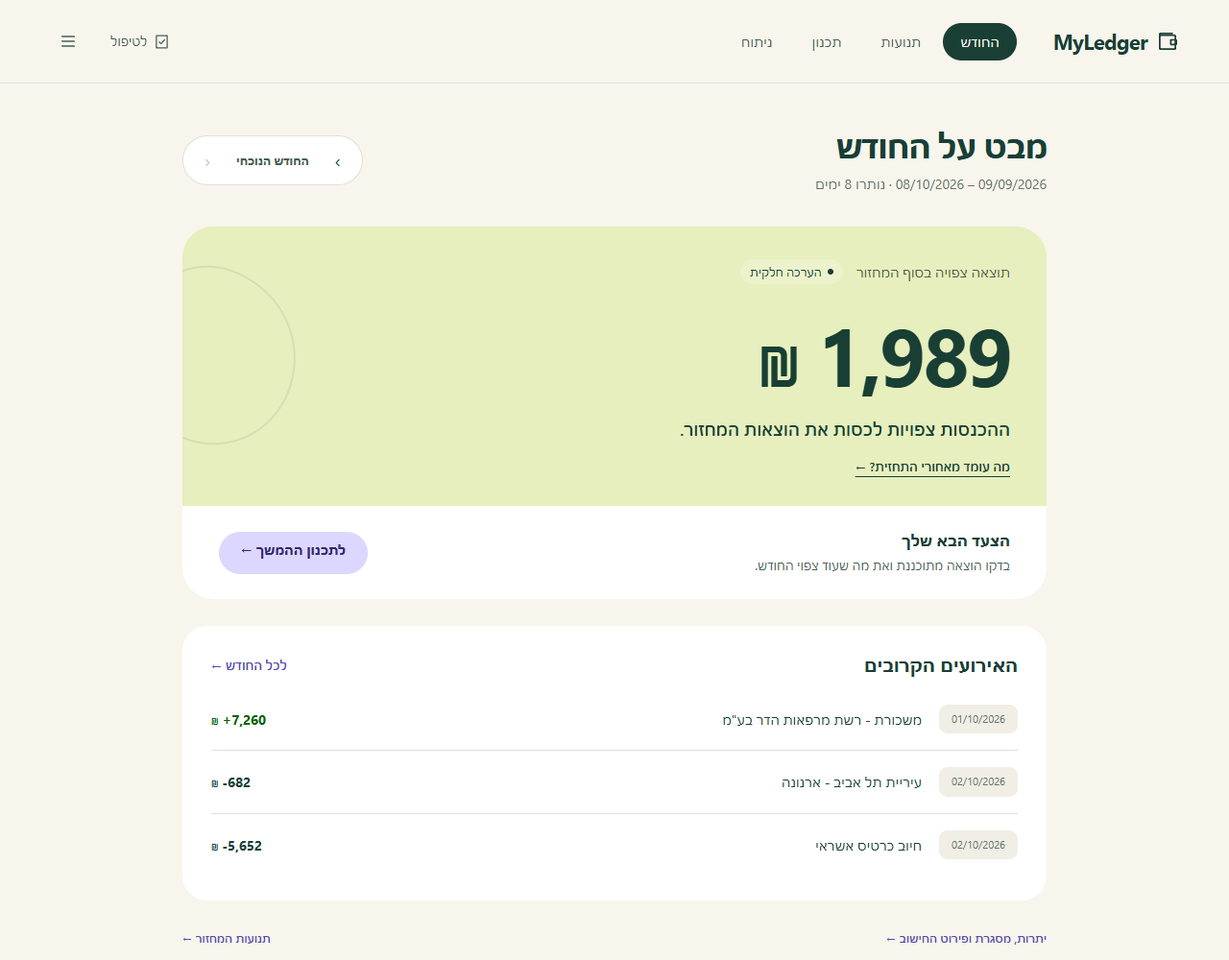
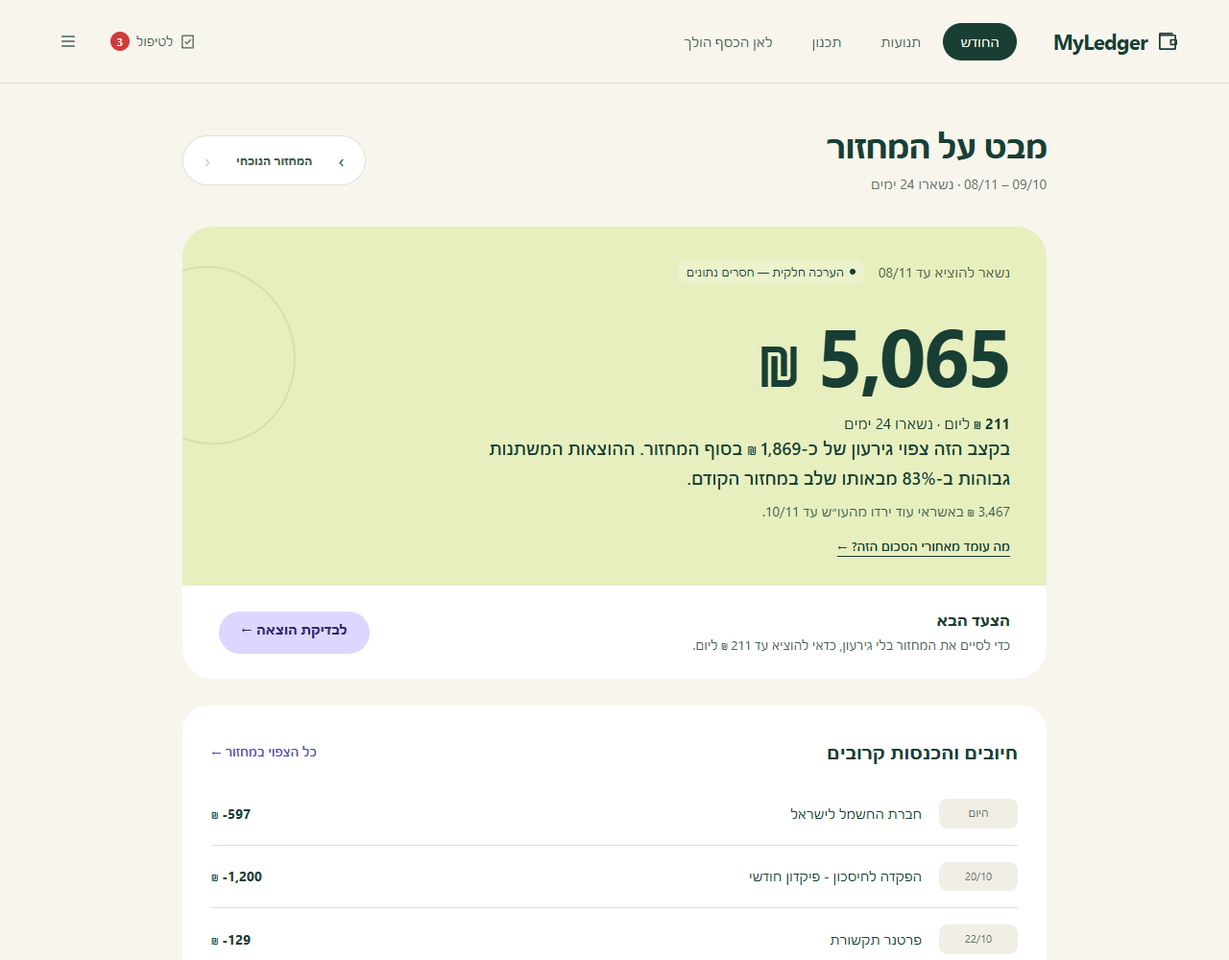
Refresh screenshots and docs for the new screens
All docs/images screenshots retaken from demo data, with local paths masked.
README, USER_GUIDE and INSTALL use the screens' own vocabulary and describe
the lean Telegram digest. The breakdown summary now says it shows the cycle's
projection; recurring totals no longer run the label into the number.

diff --git a/web/src/pages/RecurringPage.vue b/web/src/pages/RecurringPage.vue
@@ -95,19 +95,19 @@ finally {
 </div>
 <div class="flex gap-2">
 <button class="btn btn-ghost" :disabled="busy" @click="detect">{{busy?'מחפש…':'זיהוי מההיסטוריה'}}</button>
-<button class="btn btn-primary" @click="edit()">הוספת התחייבות</button>
+<button class="btn btn-primary" @click="edit()">הוספה ידנית</button>
 </div>
 </header>
 <p v-if="error&&!open" role="alert" class="error-box">{{error}}</p>
 <p v-if="message" role="status" class="notice-panel">{{message}}</p>
 <div class="metric-grid">
 <div class="metric-card">
-<span>הכנסה חודשית מתוכננת</span>
-<strong>{{loading?'—':fmtILSRound(totals.income)}}</strong>
+<h2>הכנסה חודשית מתוכננת</h2>
+<strong class="value block">{{loading?'—':fmtILSRound(totals.income)}}</strong>
 </div>
 <div class="metric-card">
-<span>הוצאה חודשית מתוכננת</span>
-<strong>{{loading?'—':fmtILSRound(totals.expense)}}</strong>
+<h2>הוצאה חודשית מתוכננת</h2>
+<strong class="value block">{{loading?'—':fmtILSRound(totals.expense)}}</strong>
 </div>
 </div>
 <p class="section-hint">סכומים פעילים ובתוקף. דו־חודשי מחושב כמחצית; סכום זה שונה מהיתרה שעוד נותרה לתשלום במחזור.</p>
@@ -131,7 +131,7 @@ finally {
 </article>
 <p v-if="!items.length" class="empty-state">אין עדיין הכנסות או הוצאות קבועות. אפשר להוסיף ידנית או לזהות מההיסטוריה.</p>
 </div>
-<AppDialog :open="open" :title="editing?'עריכת התחייבות':'התחייבות חדשה'" @close="!busy&&(open=false)">
+<AppDialog :open="open" :title="editing?'עריכת קבועה':'הכנסה או הוצאה קבועה חדשה'" @close="!busy&&(open=false)">
 <form class="space-y-4" @submit.prevent="save">
 <p v-if="error" class="error-box" role="alert">{{error}}</p>
 <label class="block">שם כפי שמופיע בתנועה<input v-model="form.displayName" class="field w-full" required minlength="2" maxlength="120"/>

diff --git a/web/src/pages/BreakdownPage.vue b/web/src/pages/BreakdownPage.vue
@@ -185,7 +185,9 @@ const budgetPct = computed(() => {
       <div class="analysis-summary" :class="{ 'opacity-50': loading }">
         <div class="flex flex-wrap items-center justify-between gap-2">
           <p class="text-sm font-semibold" :style="{ color: 'var(--text-secondary)' }">
-            {{ running ? (positive ? 'עודף צפוי לסוף החודש' : 'גירעון צפוי לסוף החודש') : 'מאזן החודש' }}
+            <!-- The projection is the current cycle's (the same figure as the home
+                 screen), which can run past the calendar month - so it says so. -->
+            {{ running ? (positive ? 'עודף צפוי בסוף המחזור' : 'גירעון צפוי בסוף המחזור') : 'מאזן החודש' }}
           </p>
           <span
             class="inline-flex items-center gap-1.5 rounded-full px-2 py-0.5 text-xs font-semibold"
@@ -204,7 +206,7 @@ const budgetPct = computed(() => {
         </p>
 
         <p v-if="data.projection" class="mt-1.5 text-sm" :style="{ color: 'var(--text-secondary)' }">
-          יום {{ data.projection.daysElapsed }} מתוך {{ data.projection.daysTotal }}
+          יום {{ data.projection.daysElapsed }} מתוך {{ data.projection.daysTotal }} במחזור · כמו במסך החודש
         </p>
         <p v-else class="mt-1.5 text-sm" :style="{ color: 'var(--text-secondary)' }">
           החודש נסגר. הכנסות פחות הוצאות שנספרות בתזרים, בלי הפקדות לחיסכון.

diff --git a/web/src/pages/CategoriesPage.vue b/web/src/pages/CategoriesPage.vue
@@ -26,7 +26,7 @@ const KINDS: Array<{ value: CategoryKind; label: string; hint: string }> = [
     label: 'הכנסה משתנה',
     hint: 'פרילנס, מילואים, החזרי מס — נכנס, אבל לא מבטיח כלום על החודש הבא',
   },
-  { value: 'fixed', label: 'הוצאה קבועה', hint: 'התחייבות חודשית צפויה — נכנסת לתחזית' },
+  { value: 'fixed', label: 'הוצאה קבועה', hint: 'חוזרת כל חודש בסכום צפוי — נכנסת לתחזית' },
   { value: 'variable', label: 'הוצאה משתנה', hint: 'הוצאה שוטפת שבשליטתכם — ממנה נגזר כמה נשאר להוציא' },
   {
     value: 'excluded',
@@ -146,7 +146,7 @@ async function removeCategory() {
     <div class="page-heading">
       <div>
         <h1>קטגוריות ותקציבים</h1>
-        <p>הסיווג ל"קבועה" או "משתנה" הוא מה שקובע את התחזית — הוצאות קבועות נחשבות כמחויבות, ומההוצאות המשתנות נגזר כמה נשאר להוציא.</p>
+        <p>הסיווג ל"קבועה" או "משתנה" הוא מה שקובע את התחזית — הוצאות קבועות נשמרות מראש בתחזית, ומההוצאות המשתנות נגזר כמה נשאר להוציא.</p>
       </div>
     </div>
 

diff --git a/docs/USER_GUIDE.md b/docs/USER_GUIDE.md
@@ -8,9 +8,9 @@ MyLedger עונה בעיקר על שאלה אחת: **כמה נשאר לי להו
 - [החודש — המסך הראשי](#החודש)
 - [תכנון](#תכנון)
 - [תנועות](#תנועות)
-- [ניתוח](#ניתוח)
+- [לאן הכסף הולך](#לאן-הכסף-הולך)
 - [לטיפול](#לטיפול)
-- [תפריט הניהול](#תפריט-הניהול): חשבונות, התחייבויות, קטגוריות, חוקים, היסטוריה, הגדרות
+- [תפריט הניהול](#תפריט-הניהול): חשבונות, קבועות, קטגוריות, חוקים, היסטוריה, הגדרות
 - [סיכומים בטלגרם](#סיכומים-בטלגרם)
 - [שגרת שימוש מומלצת](#שגרת-שימוש-מומלצת)
 - [פקודות טרמינל](#פקודות-טרמינל)
@@ -27,15 +27,15 @@ MyLedger עונה בעיקר על שאלה אחת: **כמה נשאר לי להו
 |---|---|---|
 | הכנסה קבועה | משכורת, קצבאות | צופה שתיכנס שוב |
 | הכנסה משתנה | החזר מס, בונוס | סופרת כשנכנסה, לא מבטיחה שתחזור |
-| הוצאה קבועה | שכר דירה, ביטוח, מנויים | התחייבות — יורדת מהמסגרת מראש |
+| הוצאה קבועה | שכר דירה, ביטוח, מנויים | נשמרת מראש בתחזית ויורדת ממה שנשאר להוציא |
 | הוצאה משתנה | סופר, מסעדות, דלק | **זה מה שבשליטתכם** |
-| הפקדה לחיסכון | הוראת קבע לפיקדון | יורדת מהמסגרת, אבל נספרת כהישג ולא כהוצאה |
+| הפקדה לחיסכון | הוראת קבע לפיקדון | יורדת ממה שנשאר להוציא, אבל נספרת כהישג ולא כהוצאה |
 | העברה | חיוב כרטיס אשראי בבנק, העברה בין חשבונות שלכם | לא נספרת בשום סיכום — כדי שלא תיספר פעמיים |
-| לא תזרימי | פירעון משכנתא חד-פעמי, משיכה מהשקעה | כסף אמיתי שלא שייך לקצב החודשי — מוצג, אבל לא מעוות את התחזית |
+| לא נספר בתזרים | פירעון משכנתא חד-פעמי, משיכה מהשקעה | כסף אמיתי שלא שייך לקצב החודשי — מוצג, אבל לא מעוות את התחזית |
 
 **3. שתי תצוגות לאותו כסף.** קנייה באשראי ב-5 בחודש יורדת מהבנק רק ב-10 בחודש הבא. ב**תצוגה החשבונאית** ("מה הוצאתי") היא נספרת ביום הקנייה; ב**תצוגת המזומן** ("מה יהיה בבנק") ביום החיוב. המסכים אומרים תמיד באיזו תצוגה הם.
 
-**4. צף האשראי.** כסף שכבר הוצא בכרטיס אבל עוד לא ירד מהבנק. זו הסיבה שיתרת הבנק נראית טוב יותר מהמצב האמיתי, ולכן המערכת מציגה אותו במפורש.
+**4. חיובי אשראי שעוד לא ירדו.** כסף שכבר הוצא בכרטיס אבל עוד לא ירד מהבנק. זו הסיבה שיתרת הבנק נראית טוב יותר מהמצב האמיתי, ולכן המערכת מציגה אותו במפורש.
 
 **5. פריסה.** בונוס שנתי או תשלום מראש לכמה חודשים נכנסים בפעם אחת. אם סופרים אותם כולם בחודש שבו נכנסו, החודש הזה נראה מצוין והבאים נראים כמו קריסה. פריסה מחלקת סכום כזה על פני כמה חודשים **בתצוגה החשבונאית בלבד** — היתרה בבנק לא משתנה.
 
@@ -45,20 +45,21 @@ MyLedger עונה בעיקר על שאלה אחת: **כמה נשאר לי להו
 
 ![המסך הראשי](images/home.png)
 
-- **המספר הגדול** — התוצאה הצפויה בסוף המחזור: הכנסות (שנכנסו + שצפויות) פחות הוצאות קבועות, משתנות וצפויות. מתחת: משפט אחד שאומר אם זה חיובי או שלילי.
-- **התווית ליד הכותרת** ("לפי הנתונים המתועדים" / "הערכה חלקית") — כמה אפשר לסמוך על המספר. לחיצה מובילה לבדיקת הנתונים.
-- **"מה עומד מאחורי התחזית?"** — פותח את המשוואה המלאה, וכל שורה בה מקשרת לתנועות שמרכיבות אותה.
-- **הצעד הבא** — אם יש בעיה בנתונים (ספק שלא התעדכן, חיוב אשראי שלא הותאם), תופיע כאן הפניה לתיקון. אם הכול תקין — הפניה לתכנון.
-- **האירועים הקרובים** — ההכנסות וההוצאות הקבועות הבאות, עם תאריך צפוי.
+- **המספר הגדול** — **כמה נשאר להוציא** על הוצאות משתנות עד סוף המחזור, ומתחתיו כמה זה ליום. *זו לא יתרת הבנק.*
+- **מתחת למספר** — העודף או הגירעון הצפוי בסוף המחזור, קצב ההוצאות המשתנות מול אותה נקודה במחזור הקודם (כשהוא חריג), וכמה באשראי עוד ירד מהעו״ש.
+- **התווית ליד הכותרת** ("כל החשבונות מעודכנים" / "הערכה חלקית — חסרים נתונים") — כמה אפשר לסמוך על המספר. לחיצה מובילה לבדיקת הנתונים.
+- **"מה עומד מאחורי הסכום הזה?"** — פותח את המשוואה המלאה, וכל שורה בה מקשרת לתנועות שמרכיבות אותה.
+- **הצעד הבא** — נקבע לפי הנתונים: צפי למינוס בעו״ש, בעיה בנתונים, קצב הוצאה גבוה, או החיוב הגדול הבא.
+- **חיובים והכנסות קרובים** — ההכנסות וההוצאות הקבועות הבאות, עם "היום" / "מחר" או תאריך.
 - **החלפת מחזור** (למעלה משמאל) — חזרה אחורה עד 36 מחזורים.
 
-**"יתרות, מסגרת ופירוט החישוב"** מוביל למסך המפורט:
+**"יתרה בעו״ש ופירוט החישוב"** מוביל למסך המפורט:
 
 ![פירוט החודש](images/month-details.png)
 
-- **המסגרת שנותרה** — כמה עוד אפשר להוציא על הוצאות משתנות במחזור, אחרי כל ההתחייבויות והחיסכון. *זו לא יתרת הבנק.*
-- **יתרות הבנק** — מה שדווח בעדכון האחרון של כל חשבון, עם מועד העדכון.
-- **היתרה לאורך המחזור** — גרף יום-אחרי-יום: קו מלא עד היום, תחזית מהיום. אפשר לעבור עליו עם העכבר או עם **החצים במקלדת**, ויש **תצוגת טבלה** עם כל הערכים. משולשים מסמנים כסף שנכנס (▲) ויוצא (▼), ואזור אדום מסמן סכנת מינוס.
+- **נשאר להוציא** — כמה עוד אפשר להוציא על הוצאות משתנות במחזור, אחרי ההוצאות הקבועות והחיסכון. *זו לא יתרת הבנק.*
+- **יתרה בעו״ש בפועל** — מה שדווח בעדכון האחרון של כל חשבון, עם מועד העדכון.
+- **יתרה בעו״ש לאורך המחזור** — גרף יום-אחרי-יום: קו מלא עד היום, תחזית מהיום. אפשר לעבור עליו עם העכבר או עם **החצים במקלדת**, ויש **תצוגת טבלה** עם כל הערכים. משולשים מסמנים כסף שנכנס (▲) ויוצא (▼), ואזור אדום מסמן סכנת מינוס.
 - **לאן הלכו ההוצאות המשתנות** ו**מגמות** של 12 חודשים — האם חודש חריג הוא מקרה או מגמה.
 
 ## תכנון
@@ -68,46 +69,47 @@ MyLedger עונה בעיקר על שאלה אחת: **כמה נשאר לי להו
 - **מה עוד צפוי במחזור** — כל ההכנסות וההוצאות הקבועות שעוד לא הגיעו.
 - **תכנון עד סוף המחזור** — סליידר: "אם אוציא X ליום, כמה יישאר?", עם **נקודת האיזון** מסומנת.
 - **קצב ההוצאה** — ההוצאות המשתנות מתחילת המחזור, מול אותה נקודה במחזור הקודם.
-- **התחייבויות, פריסות ותשלומים** —
+- **הוצאות קבועות, פריסות ותשלומים** —
   - **תשלומים**: כל רכישה בתשלומים, כמה שולם מכמה, ובעיקר **לוח השחרור** — כמה כסף מפסיק לרדת בכל חודש.
-  - **צף האשראי** לפי כרטיס ומועד חיוב.
+  - **חיובי אשראי שעוד לא ירדו** לפי כרטיס ומועד חיוב.
   - **פריסות** פעילות, עם אפשרות להוסיף הערה.
 
 ## תנועות
 
 ![תנועות](images/transactions.png)
 
-- התנועות **מקובצות לפי יום**, עם סיכום היום (בלי חיובי אשראי מרוכזים, שכבר נספרו כקניות).
+- התנועות **מקובצות לפי יום**, עם סיכום היום (בלי חיובי אשראי מרוכזים, שכבר נספרו כקניות). **מיון** לפי תאריך או סכום. סיכום "נכנס / יצא" לא כולל העברות פנימיות.
 - **חיפוש** לפי שם בית עסק, ו**בחירת חודש**. **מסננים**: חשבון, קטגוריה, טווח תאריכים, מצב (הושלם / בהמתנה), טווח סכומים, והשפעה על התזרים.
-- **בחירה מרובה** — מסמנים כמה תנועות ומסווגים את כולן יחד. לפני השינוי מוצגת **תצוגה מקדימה** של מה ישתנה.
+- **בחירה מרובה** — מסמנים כמה תנועות, בוחרים קטגוריה (או "הסרת סיווג") ומסווגים את כולן יחד. לפני השינוי מוצגת **תצוגה מקדימה** של מה ישתנה.
 - **לחיצה על תנועה** פותחת את הפרטים:
   - **קטגוריה** — שינוי ידני *נועל* את התנועה, וחוקים אוטומטיים לא ידרסו אותו.
   - **למה סווגה כך** — ידנית, לפי איזה חוק, או ללא סיווג.
   - **הערה** בשלוש רמות: לתנועה הזו בלבד, **לכל התשלומים** של אותה רכישה (כולל עתידיים), או **לכל התנועות מבית העסק** (גם עתידיות). ההערה הספציפית גוברת.
   - **פריסה על פני חודשים** — עם תצוגה של הסכום לחודש והחודשים המדויקים לפני השמירה.
+  - **"להחיל על כל תנועה מבית העסק"** — יוצר חוק, אחרי תצוגה מקדימה של כמה תנועות יסווגו.
   - **חוקים שמתאימים לתיאור** — וקישור לעריכתם.
 
-## ניתוח
+## לאן הכסף הולך
 
-![ניתוח לפי קטגוריות](images/breakdown.png)
+![לאן הכסף הולך לפי קטגוריות](images/breakdown.png)
 
-לפי **חודש קלנדרי**. למעלה — התוצאה הצפויה לסוף החודש ומרכיביה. מתחת — כרטיס לכל קטגוריה: כמה יצא, כמה תנועות, איזה חלק מההוצאות, ומצב התקציב **בשקלים** ("נותרו 26 ₪", "מעל התקציב ב-1,027 ₪") ולא באחוזים. לחיצה על קטגוריה מציגה את התנועות שלה באותו מקום. בהמשך: ההכנסות, ההפקדות לחיסכון וסיכום התקציבים.
+לפי **חודש קלנדרי**. למעלה — כשהמחזור הנוכחי מתחיל בחודש הזה, העודף או הגירעון הצפוי בסוף המחזור (אותו מספר כמו במסך החודש) ומרכיביו. מתחת — כרטיס לכל קטגוריה: כמה יצא, כמה תנועות, איזה חלק מההוצאות, ומצב התקציב **בשקלים** ("נותרו 26 ₪", "מעל התקציב ב-1,027 ₪") ולא באחוזים. לחיצה על קטגוריה מציגה את התנועות שלה באותו מקום. בהמשך: ההכנסות, ההפקדות לחיסכון וסיכום התקציבים.
 
 ## לטיפול
 
-תור עבודה שאפשר **לסיים**. שלוש לשוניות:
+תור עבודה שאפשר **לסיים**. מספר הפריטים מופיע על הכפתור "לטיפול" בראש המסך, והמסך נפתח בלשונית הראשונה שיש בה עבודה. שלוש לשוניות:
 
-**איכות וסנכרון** — האם המספרים שלמים:
+**בדיקת נתונים** — האם המספרים שלמים:
 - **התאמת חיובי אשראי**: לכל מחזור חיוב, האם הסכום שירד מהבנק שווה לסכום הקניות בכרטיס. אי-התאמה מצביעה על תנועות חסרות או על כרטיס שלא מחובר.
-- **ממצאים**: ספק שהפסיק להתעדכן, חברת אשראי שמחייבת את הבנק אבל לא מחוברת, חיוב אשראי שנספר כהוצאה ועוד. לכל ממצא — ראיות, קישור לתנועות, ואפשרות לסמן "נבדק" עם הסבר. ממצא שסומן לא חוזר, אלא אם משהו השתנה.
+- **ממצאים**: בנק או כרטיס שהפסיק להתעדכן, חברת אשראי שמחייבת את הבנק אבל לא מחוברת, חיוב אשראי שנספר כהוצאה ועוד. לכל ממצא — ראיות, קישור לתנועות, ואפשרות לסמן "נבדק" עם הסבר. ממצא שסומן לא חוזר, אלא אם משהו השתנה.
 
-**סיווג תנועות** — כרטיס אחד בכל פעם:
+**לסיווג** — כרטיס אחד בכל פעם, החשובים קודם:
 
 ![תור הסיווג](images/review.png)
 
 - בוחרים קטגוריה בלחיצה (ההצעות מסוננות לפי כיוון התנועה).
 - **"להחיל על כל תנועה בשם הזה"** — יוצר חוק, וכל התנועות העתידיות מבית העסק יסווגו לבד. כך כל בית עסק דורש החלטה **אחת**.
-- תנועה גדולה מאוד בבנק (25,000 ₪ ומעלה, למשל העברה להשקעה או משכורת עם בונוס) לא מסווגת אוטומטית לפי הגודל שלה: היא מופיעה ב**איכות וסנכרון** כתנועה מהותית שממתינה להחלטה — משכורת, העברה פנימית, חיסכון או "לא תזרימי".
+- תנועה גדולה מאוד בבנק (25,000 ₪ ומעלה, למשל העברה להשקעה או משכורת עם בונוס) לא מסווגת אוטומטית לפי הגודל שלה: היא מופיעה ב**בדיקת נתונים** כתנועה גדולה שממתינה להחלטה — משכורת, העברה פנימית, חיסכון או "לא נספר בתזרים".
 - תנועה בהמתנה מסומנת: אם תחכו יום-יומיים, השם הסופי שלה עשוי להשתנות.
 
 **תובנות** — בדיקות דטרמיניסטיות, לא ניחושים: **חיוב כפול** (אותו סכום, אותו בית עסק, תוך 3 ימים), **מנוי שהתייקר**, **חיוב חריג** (פי 2.5 מהרגיל), **בית עסק חדש** (גם סימן אזהרה להונאה), **קטגוריה מול עצמה** בחודשים קודמים, ו**תשלומים שמסתיימים**. אפשר לסמן כל תובנה כמועילה, לא רלוונטית, טופלה או "הזכר לי בעוד שבוע".
@@ -119,24 +121,24 @@ MyLedger עונה בעיקר על שאלה אחת: **כמה נשאר לי להו
 כפתור ☰ בפינה פותח את המסכים שמשתמשים בהם פחות:
 
 ### חשבונות וחיבורים
-כל ספק, החשבונות שנמשכו ממנו, מתי עודכנו, כמה תנועות, היתרה והסכום שממתין לחיוב. מכאן **מוסיפים חיבור**, **מושכים** (לכולם או לספק אחד, עם יומן חי), מעדכנים סיסמה, משנים שם, קובעים **יום חיוב** לכרטיס, ומסמנים חשבון כ**רדום** (לא יתריע על חוסר עדכון) או **סגור** (נשאר בהיסטוריה, לא נכנס לתחזית).
+כל בנק וחברת אשראי, החשבונות שלהם, מתי עודכנו, כמה תנועות, היתרה והסכום שממתין לחיוב. מכאן **מוסיפים חיבור**, **מעדכנים נתונים** (לכולם או לאחד), מעדכנים פרטי התחברות, משנים שם (כפתור העיפרון), קובעים **יום חיוב** לכרטיס, ומסמנים חשבון כ**רדום** (לא יתריע על חוסר עדכון) או **סגור** (נשאר בהיסטוריה, לא נכנס לתחזית). כשעדכון נכשל, מופיע כרטיס בעברית לכל בנק עם הסיבה וכפתור לתיקון; הלוג הטכני מקופל מתחת.
 
-### התחייבויות
-![התחייבויות](images/recurring.png)
+### הכנסות והוצאות קבועות
+![הכנסות והוצאות קבועות](images/recurring.png)
 
-ההכנסות וההוצאות הקבועות. רובן **מזוהות אוטומטית** מההיסטוריה (כולל חשבונות דו-חודשיים כמו חשמל ומים), ואפשר גם להוסיף ידנית. לכל התחייבות: סכום צפוי, יום בחודש, תדירות, תוקף (מתאריך / עד תאריך), ומצב — פעילה, עתידית, פגה, או "לא נראתה לאחרונה".
+ההכנסות וההוצאות הקבועות. רובן **מזוהות אוטומטית** מההיסטוריה (כולל חשבונות דו-חודשיים כמו חשמל ומים), ואפשר גם להוסיף ידנית. לכל אחת: סכום צפוי, יום בחודש, תדירות, תוקף (מתאריך / עד תאריך), התאריך הבא, ומצב — פעילה, עתידית, פגה, או "לא נראתה לאחרונה" (ואז אפשר לאשר שהיא עדיין בתוקף).
 
 ### קטגוריות ותקציבים
 ![קטגוריות](images/categories.png)
 
-הקטגוריות מקובצות לפי סוג. לכל אחת: צבע, אייקון, סוג ו**תקציב חודשי** (לא חובה). **שינוי הסוג משנה את התחזית** — זו ההחלטה החשובה במסך הזה. בהתקנה חדשה נטענות אוטומטית 19 קטגוריות וחוקים לרשתות המוכרות בישראל.
+הקטגוריות מקובצות לפי סוג. לכל אחת: שם, צבע ואייקון (אפשר לערוך), סוג ו**תקציב חודשי** (לא חובה, רק להוצאות ולחיסכון). **שינוי הסוג משנה את התחזית** — זו ההחלטה החשובה במסך הזה. בהתקנה חדשה נטענות אוטומטית 19 קטגוריות וחוקים לרשתות המוכרות בישראל.
 
 ### חוקי סיווג
 ![חוקים](images/rules.png)
 
-חוק = "אם התיאור מכיל X, הקטגוריה היא Y". אפשר גם ביטוי רגולרי (עם הגנה מפני ביטויים שיתקעו את המערכת). **עדיפות** גבוהה מנצחת. לפני שמירה מוצגת **תצוגה מקדימה**: כמה תנועות יתאימו, כמה מהן נעולות ידנית, וכמה מתנגשות בחוק אחר. תנועה שסווגה ידנית לעולם לא נדרסת.
+חוק = "אם התיאור מכיל X, הקטגוריה היא Y". אפשר גם ביטוי רגולרי (עם הגנה מפני ביטויים שיתקעו את המערכת). **עדיפות** גבוהה מנצחת. לפני שמירה מוצגת **תצוגה מקדימה**: כמה תנועות יתאימו, כמה מהן נעולות ידנית, וכמה מתנגשות בחוק אחר — ואפשר לסווג באותו שלב גם את התנועות הקיימות שעדיין בלי קטגוריה. תנועה שסווגה ידנית לעולם לא נדרסת.
 
-**הצע סיווגים לבתי עסק לא מוכרים** — אם מותקן Ollama, מודל מקומי מציע חוקים לבתי העסק שנשארו, ואתם מסמנים את מה שנכון.
+**הצעות סיווג ממודל מקומי** — אם מותקן Ollama, מודל מקומי מציע חוקים לבתי העסק שנשארו, ואתם מסמנים את מה שנכון.
 
 ### היסטוריית שינויים
 כל סיווג, חוק או שינוי קטגוריה נרשם, ואפשר **לבטל** אותו — כל עוד הנתונים לא השתנו מאז. אחרי כל פעולה מופיעה גם הודעת "בטל" קצרה בתחתית המסך.
@@ -161,9 +163,11 @@ MyLedger עונה בעיקר על שאלה אחת: **כמה נשאר לי להו
 
 | מתי | מה |
 |---|---|
-| **1 בחודש** | סיכום חודשי — התוצאה, מול החודש הקודם ומול הממוצע, לאן הלך הכסף ומה משתחרר |
-| **יום ראשון** | סיכום שבועי — פילוח לפי קטגוריות ותובנות |
-| **שאר הימים** | יומי — הוצאות אתמול, ורק מה שדחוף |
+| **1 בחודש** | סיכום חודשי — עודף או גירעון, מול החודש הקודם ומול הממוצע, לאן הלך הכסף, מה בלט באותו חודש, ותשלומים שמסתיימים |
+| **יום ראשון** | סיכום שבועי — הוצאות משתנות מול שבוע רגיל, הקבועות בנפרד, לאן הלכו המשתנות, תובנות, מצב המחזור והשבוע הקרוב |
+| **שאר הימים** | יומי — שתיים עד ארבע שורות: אתמול מול התקציב היומי, כמה נשאר להוציא במחזור, והקצב רק כשהוא חריג. חיוב שיורד היום או מחר, תקציב שנחצה אתמול, חשבון שלא התעדכן, חיוב חשוד או צפי למינוס — רק ביום שהם רלוונטיים |
+
+בימים רגילים ההודעה היומית מגיעה **בלי צליל**; צליל רק כשיש משהו לטפל בו.
 
 שלוש רמות פירוט: **מלא** (שמות בתי עסק), **בלי שמות** (רק קטגוריות) ו**מינימלי** (רק סכומים). הערוץ יוצא בלבד — אי אפשר לשלוט במערכת מטלגרם.
 
@@ -174,7 +178,7 @@ MyLedger עונה בעיקר על שאלה אחת: **כמה נשאר לי להו
 | כל יום (אופציונלי) | קוראים את הסיכום בטלגרם | 30 שנ׳ |
 | פעם בשבוע | **לטיפול** — מסווגים את מה שנשאר, עוברים על התובנות | 3–5 דק׳ |
 | לפני הוצאה גדולה | **תכנון** — הסליידר מראה מה יישאר | דקה |
-| תחילת חודש | **ניתוח** של החודש שעבר; מעדכנים תקציבים והתחייבויות | 10 דק׳ |
+| תחילת חודש | **לאן הכסף הולך** בחודש שעבר; מעדכנים תקציבים וקבועות | 10 דק׳ |
 
 ## בטלפון
 
@@ -191,8 +195,8 @@ MyLedger עונה בעיקר על שאלה אחת: **כמה נשאר לי להו
 | פקודה | מה היא עושה |
 |---|---|
 | `npm run api` | מפעיל את השרת והממשק (http://127.0.0.1:3010) |
-| `npm run scrape` | משיכה מכל הספקים שהגיע זמנם · `-- max` ספק אחד · `-- force` כולם |
-| `npm run login -- <ספק>` | התחברות ידנית חד-פעמית בדפדפן גלוי (לאתגרי SMS) |
+| `npm run scrape` | עדכון נתונים מכל הבנקים וחברות האשראי שהגיע זמנם · `-- max` רק אחד · `-- force` כולם |
+| `npm run login -- <חברה>` | התחברות ידנית חד-פעמית בדפדפן גלוי (לאתגרי SMS) |
 | `npm run accounts` | רשימת חיבורים · `-- add` / `-- update` / `-- remove` |
 | `npm run check-config` | בודק את קובץ ההגדרות בלי להציג סיסמאות |
 | `npm run audit` | בדיקת ספירה כפולה של חיובי אשראי וכיסוי הנתונים |

diff --git a/docs/INSTALL.md b/docs/INSTALL.md
@@ -9,7 +9,7 @@
 | [1](#1-דרישות) | דרישות מקדימות | 5 דק׳ |
 | [2](#2-התקנה) | התקנה בלחיצה כפולה והרצה ראשונה | 10 דק׳ |
 | [3](#3-חיבור-חשבונות) | חיבור בנק וכרטיסי אשראי | 10 דק׳ לספק |
-| [4](#4-משיכה-ראשונה) | משיכה ראשונה ובדיקה | 5–15 דק׳ |
+| [4](#4-עדכון-נתונים-ראשון) | עדכון נתונים ראשון ובדיקה | 5–15 דק׳ |
 | [5](#5-הרצה-קבועה) | הרצה קבועה ברקע | 2 דק׳ |
 | [6](#6-הקשחה-מומלצת) | הקשחה, גיבוי, טלגרם | לפי הצורך |
 
@@ -37,7 +37,7 @@
 | מסד נתונים | יוצר את קובץ ההגדרות ואת מסד הנתונים |
 | ממשק | בונה את הדשבורד |
 | שאלה: נתוני הדגמה? | משק בית בדוי, כדי להסתכל לפני שמחברים חשבון אמיתי |
-| שאלה: הרצה אוטומטית? | משיכה יומית ב-10:00 והפעלה עם Windows (שלב 5 למטה) |
+| שאלה: הרצה אוטומטית? | עדכון נתונים יומי ב-10:00 והפעלה עם Windows (שלב 5 למטה) |
 | הפעלה | מפעיל את המערכת ופותח אותה בדפדפן |
 
 **בפעמים הבאות:** לחיצה כפולה על **`start.cmd`** פותחת את המערכת (ומפעילה אותה אם היא כבויה). **לעדכון לגרסה חדשה:** מורידים את הגרסה החדשה לאותה תיקייה ומריצים שוב את `install.cmd`.
@@ -117,30 +117,30 @@ npm run accounts -- add
 
 ---
 
-## 4. משיכה ראשונה
+## 4. עדכון נתונים ראשון
 
 ### התחברות ידנית חד-פעמית (כשיש SMS/OTP)
 
-בנקים רבים מזהים "מכשיר חדש" ומבקשים קוד SMS, ולמשיכה האוטומטית אין דרך לענות עליו. לכן כל ספק מקבל פרופיל דפדפן קבוע, ומתחברים אליו פעם אחת ידנית:
+בנקים רבים מזהים "מכשיר חדש" ומבקשים קוד SMS, ולעדכון האוטומטי אין דרך לענות עליו. לכן כל בנק וחברת אשראי מקבלים פרופיל דפדפן קבוע, ומתחברים אליו פעם אחת ידנית:
 
 ```powershell
 npm run login -- hapoalim
 ```
 
-נפתח דפדפן רגיל. מתחברים, עונים על הקוד **ומסמנים "זכור את המכשיר"**. מאותו רגע המשיכות האוטומטיות עוברות בשקט.
+נפתח דפדפן רגיל. מתחברים, עונים על הקוד **ומסמנים "זכור את המכשיר"**. מאותו רגע העדכונים האוטומטיים עוברים בשקט.
 
-### משיכה
+### עדכון נתונים
 
-בממשק: **חשבונות וחיבורים ← משיכה מכולם**, עם יומן התקדמות חי. או בטרמינל:
+בממשק: **חשבונות וחיבורים ← עדכון נתונים מכולם**. אם משהו נכשל, מופיע כרטיס לכל בנק עם הסיבה וכפתור לתיקון, והלוג המלא מקופל תחת "פירוט טכני". או בטרמינל:
 
 ```powershell
-npm run scrape              # כל הספקים שהגיע זמנם
-npm run scrape -- max       # ספק אחד, מיד
+npm run scrape              # כל הבנקים וחברות האשראי שהגיע זמנם
+npm run scrape -- max       # אחד בלבד, מיד
 ```
 
 > ארגומנטים הם **מילים ולא דגלים** (`npm run scrape -- max`, לא `--company max`). npm בולע דגלים גם אחרי `--`, והסקריפט היה רץ בשקט על הכול.
 
-המשיכה הראשונה של כל ספק עמוקה (`SCRAPE_MONTHS_BACK` ב-`.env` — 12 חודשים בקובץ הדוגמה). הבאות מרעננות רק את שלושת החודשים האחרונים.
+העדכון הראשון של כל בנק וחברת אשראי עמוק (`SCRAPE_MONTHS_BACK` ב-`.env` — 12 חודשים בקובץ הדוגמה). הבאות מרעננות רק את שלושת החודשים האחרונים.
 
 ### בדיקה אחרי החיבור הראשון
 
@@ -161,7 +161,7 @@ npm run schedule:install    # רישום שתי המשימות
 
 | משימה | מתי | מה |
 |---|---|---|
-| **MyLedger daily sync** | כל יום ב-10:00 | משיכה ← גיבוי ← סיכום בטלגרם |
+| **MyLedger daily sync** | כל יום ב-10:00 | עדכון נתונים ← גיבוי ← סיכום בטלגרם |
 | **MyLedger dashboard** | בכל כניסה ל-Windows | מחזיק את הממשק חי ברקע, בלי חלון |
 
 - יום שבו המחשב היה כבוי **מושלם כשהוא נדלק** ולא נמחק.
@@ -169,7 +169,7 @@ npm run schedule:install    # רישום שתי המשימות
 - המשימות רצות **תחת המשתמש שלכם**, לא כ-SYSTEM — אחרת לא היה אפשר לפענח את הסיסמאות.
 - הסרה: `npm run schedule:remove`. מצב: `npm run schedule:status`.
 
-**כל כמה זמן נכנסים לבנק?** כרטיסי אשראי — פעם ב-20 שעות. בנקים — פעם ב-48 שעות. אפשר לשנות לכל ספק (`everyHours` ב-`accounts.config.json`). לחיצה על "משיכה" בממשק רצה תמיד מיד.
+**כל כמה זמן נכנסים לבנק?** כרטיסי אשראי — פעם ב-20 שעות. בנקים — פעם ב-48 שעות. אפשר לשנות לכל אחד (`everyHours` ב-`accounts.config.json`). לחיצה על "עדכון נתונים" בממשק רצה תמיד מיד.
 
 ---
 
@@ -202,7 +202,7 @@ npm run backup -- init      # בוחרים תיקייה (למשל OneDrive) ומ
 npm run backup -- verify    # מוודא שהגיבוי האחרון באמת נפתח
 ```
 
-הגיבוי מוצפן ב-AES-256-GCM לפני שהוא נוגע ביעד, ולכן מותר לשמור אותו בענן. **את הסיסמה שמרו במנהל סיסמאות** — בלעדיה אי אפשר לפתוח אותו. הגיבוי רץ אוטומטית אחרי כל משיכה יומית.
+הגיבוי מוצפן ב-AES-256-GCM לפני שהוא נוגע ביעד, ולכן מותר לשמור אותו בענן. **את הסיסמה שמרו במנהל סיסמאות** — בלעדיה אי אפשר לפתוח אותו. הגיבוי רץ אוטומטית אחרי כל עדכון נתונים יומי.
 
 ### סיכומים בטלגרם
 
@@ -223,7 +223,7 @@ npm run backup -- verify    # מוודא שהגיבוי האחרון באמת נ
 1. במערכת: **תפריט ☰ ← הגדרות ← התראות בטלגרם**.
 2. הדביקו את הטוקן בשדה **Bot token**.
 3. בטלגרם, פתחו את הבוט החדש (הקישור מופיע בהודעה של BotFather) ולחצו **Start** (או שלחו `/start`).
-4. חזרו למערכת ולחצו **"זהה אותי"** — מספר הצ׳אט שלכם יתמלא לבד.
+4. חזרו למערכת ולחצו **"איתור הצ׳אט שלי"** — מספר הצ׳אט שלכם יתמלא לבד.
 5. לחצו **"שמירה ובדיקה"**. תוך כמה שניות תגיע לטלגרם הודעת בדיקה. אם הגיעה — סיימתם.
 
 #### שלב 3: בחירה כמה פרטים יוצאים
@@ -239,7 +239,7 @@ npm run backup -- verify    # מוודא שהגיבוי האחרון באמת נ
 
 #### שלב 4 (לא חובה): הוספת בן/בת זוג
 1. שלחו להם את הקישור לבוט, ובקשו שילחצו **Start**.
-2. במערכת, תחת **"מי מקבל את ההודעות"**, לחצו **"מי כתב לבוט"** ובחרו אותם.
+2. במערכת, תחת **"מי מקבל את ההודעות"**, לחצו **"איתור הצ׳אט שלי"** ובחרו אותם.
 3. נשלחת אליהם הודעת בדיקה, ורק אם היא הגיעה הם נוספים לרשימה.
 
 כל הנמענים מקבלים אותן הודעות ובאותה רמת פירוט. הם **לא** יכולים לשלוט במערכת או לשאול את הבוט שאלות — הבוט רק שולח.
@@ -251,12 +251,12 @@ npm run backup -- verify    # מוודא שהגיבוי האחרון באמת נ
 | **יום ראשון** | סיכום שבועי: לאן הלך הכסף לפי קטגוריות, ותובנות (חיוב כפול, מנוי שהתייקר, בית עסק חדש) |
 | **1 בחודש** | סיכום חודשי: האם החודש נגמר בפלוס או במינוס, מול החודש הקודם ומול הממוצע |
 
-ההודעות נשלחות **על ידי המשימה היומית** (שלב 5), אחרי המשיכה. בלי המשימה אפשר לשלוח ידנית: כפתורי **"סיכום יומי" / "שבועי" / "חודשי"** בהגדרות, או `npm run notify`. לצפייה בהודעה בלי לשלוח: `npm run notify:preview`.
+ההודעות נשלחות **על ידי המשימה היומית** (שלב 5), אחרי עדכון הנתונים. בלי המשימה אפשר לשלוח ידנית: כפתורי **"סיכום יומי" / "שבועי" / "חודשי"** בהגדרות, או `npm run notify`. לצפייה בהודעה בלי לשלוח: `npm run notify:preview`.
 
 #### בעיות נפוצות
 | מה קורה | מה לעשות |
 |---|---|
-| "זהה אותי" לא מוצא כלום | לא נשלח `/start` לבוט. פתחו את הבוט, לחצו Start, ונסו שוב |
+| "איתור הצ׳אט שלי" לא מוצא כלום | לא נשלח `/start` לבוט. פתחו את הבוט, לחצו Start, ונסו שוב |
 | "Unauthorized" | הטוקן לא הועתק במלואו. העתיקו שוב מההודעה של BotFather |
 | הגיעה הודעת בדיקה, אבל אין הודעות בבוקר | המשימה היומית לא רשומה: `npm run schedule:install` |
 | הטוקן דלף | אצל @BotFather: `/revoke`, ואז חברו מחדש עם הטוקן החדש |
@@ -301,9 +301,9 @@ npm run schedule:remove
 | תסמין | מה לעשות |
 |---|---|
 | `Port 3010 is already in use` | המערכת כבר רצה (כנראה המשימה המתוזמנת). פתחו את http://127.0.0.1:3010, או הגדירו `API_PORT` אחר. |
-| המשיכה נכשלת עם `INVALID_PASSWORD` | שמות השדות שונים בין ספקים — בדקו מול `accounts.config.example.json` ועדכנו בממשק. |
+| העדכון נכשל עם `INVALID_PASSWORD` | בכרטיס התקלה לחצו **"עדכון פרטים"** והזינו שוב את פרטי ההתחברות. שמות השדות שונים בין בנקים — אם ערכתם את הקובץ ידנית, בדקו מול `accounts.config.example.json`. |
 | `GENERIC` / `TIMEOUT` עם "Failed to fetch" | חסימת בוטים זמנית (Cloudflare). **המתינו כ-10 דקות** ונסו פעם אחת — ניסיונות חוזרים מאריכים את החסימה. |
-| `GENERIC` אחר | כנראה אתגר SMS/"מכשיר חדש": `npm run login -- <ספק>` ואז שוב. לצפייה במה שקורה: `SCRAPER_SHOW_BROWSER=true` ב-`.env`. |
+| `GENERIC` אחר | כנראה אתגר SMS/"מכשיר חדש": `npm run login -- <חברה>` ואז שוב. לצפייה במה שקורה: `SCRAPER_SHOW_BROWSER=true` ב-`.env`. |
 | `The browser profile … is already in use` | נשאר פתוח חלון מ-`npm run login`. סגרו אותו ונסו שוב. |
 | `Could not decrypt a stored credential` | הקובץ הועתק ממשתמש או ממחשב אחר — DPAPI קשור לחשבון Windows. הזינו את הסיסמאות מחדש. |
 | חיוב אשראי נספר כהוצאה | `npm run audit` יראה איפה. הוסיפו חוק שמסווג את נוסח החיוב של הבנק שלכם כ"העברות וחיובי אשראי". |
